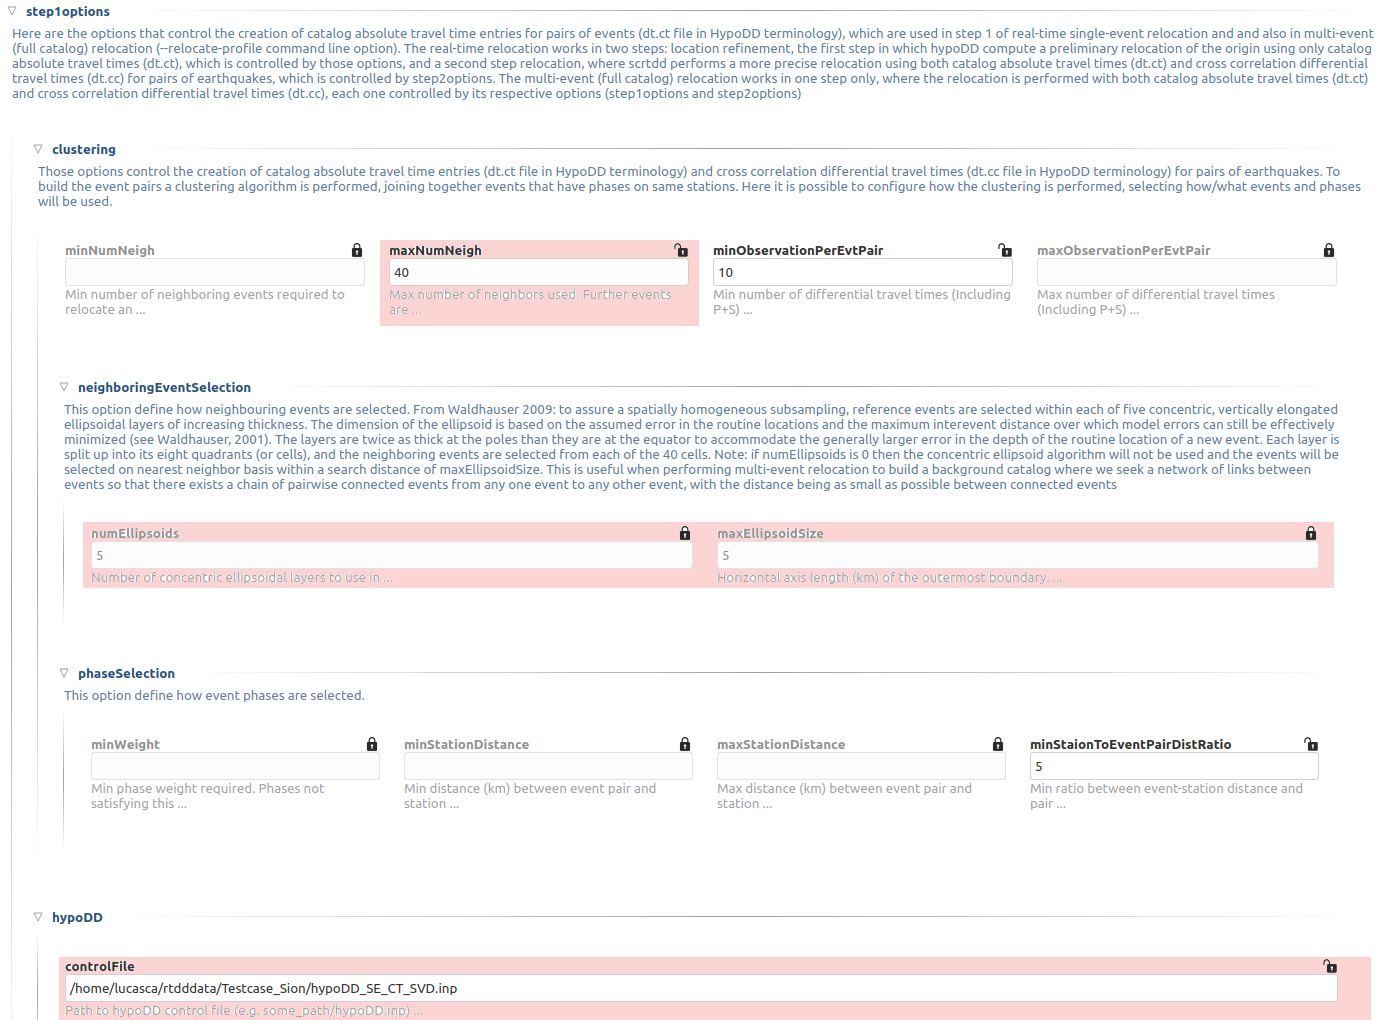
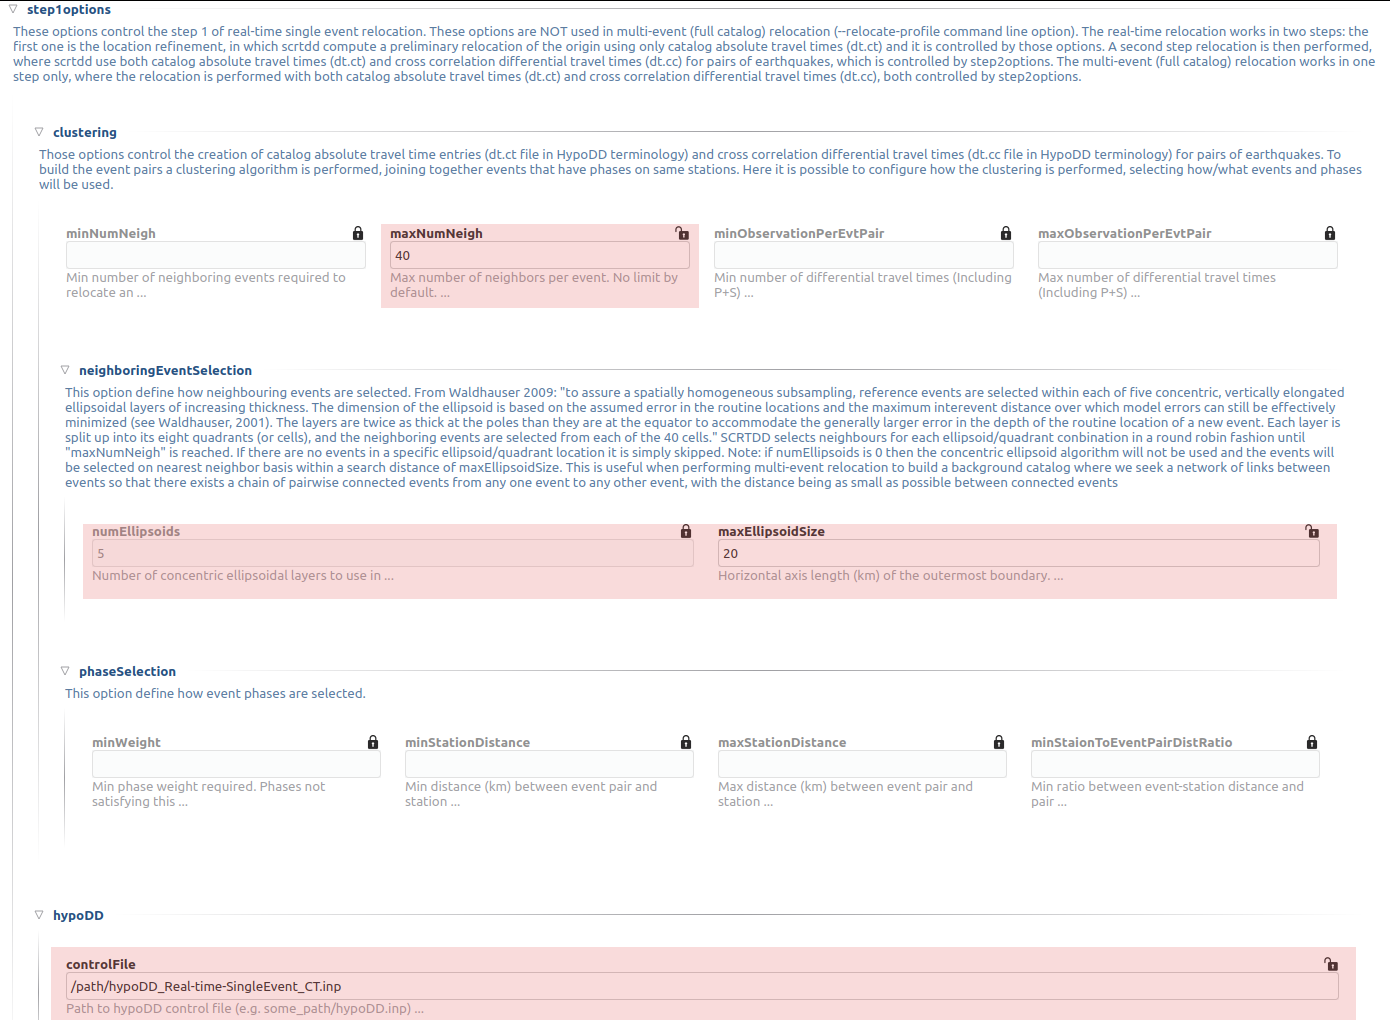
DOC: README

diff --git a/README.md b/README.md
@@ -71,7 +71,7 @@ Origin/20190223103327.031726.346363
 
 ### 2.2. Generating a background catalog
 
-In the more general case in which we don't already have a background catalog, we have to build one using scrtdd. Generating a background catalog involves two steps: first we select the candidate events that might have low quality locations (we still want them to be as accurate as possible and with many phases, e.g. origins from manual picks) and then we use scrtdd to relocated those to achieve the quality needed for a background catalog.
+In the more general case in which we don't already have a background catalog, we have to build one using scrtdd. Generating a background catalog involves two steps: first we select the candidate events that might have low quality locations (we still want them to be as accurate as possible though, and with many phases. That is we want origins manully relocated using manual picks) and then we use scrtdd to relocated those events to achieve the quality needed for a background catalog. The higher the quality of the background catalog, the higher will be the quality of the real time origin relocations.
 
 #### 2.2.1 Dumping the candidate events to files
 
@@ -83,10 +83,16 @@ scrtdd --dump-catalog myCatalog.csv
 
 It is usually convenient to see the logs on the console to detect possible errors. To achieve this we can add the options ```--verbosity=3 --console=1``` to the command.
 
-Depending on your configuration, the seiscomp database could be configured inside ```global.cfg``` or provided to the modules via scmaster. In the latter case we have to pass the database connection via command line option since ```--dump-catalog``` detach scrtdd from the messaging. Specifying the database connection via command line is also useful when the events resides on a different seiscomp database. Let's use the -d option to specify the database connection:
+Depending on your configuration, the seiscomp database could be configured inside ```global.cfg```  and thus every module knows what database to use, or this option can be provided to the modules via scmaster (```scmaster.cfg```) once they connect to the messagin system. In the latter case we have to pass the database connection to scrtdd via command line option since ```--dump-catalog``` detach scrtdd from the messaging. Specifying the database connection via command line is also useful when you want to use your local seiscomp installation to access events that reside on a different host (where a seiscomp database is installed). Let's use the -d option to specify the database connection then:
 
 ```
-scrtdd --dump-catalog myCatalog.csv  -d  mysql://user:password@host/seiscompDbName
+scrtdd --dump-catalog myCatalog.csv  -d  mysql://user:password@host/seiscompDbName --verbosity=3 --console=1
+```
+
+or in case you have a Postgresql database:
+
+```
+scrtdd --dump-catalog myCatalog.csv --plugins dbpostgresql -d postgresql://user:password@host/seiscompDbName --verbosity=3 --console=1
 ```
 
 The above command will generate three files (event.csv, phase.csv and stations.csv) which contain the information needed by scrtdd to relocate the selected events. 
@@ -139,25 +145,31 @@ At this point we have to configure the other profile options that control the re
 
 ![Relocation options](/data/multiEventStep2options.png?raw=true "Relocation options")
 
-A more careful selection is required for the cross correlation parameters, which are covered in the next paragraph.
+Then it is time to set the cross correlation parameters, which require a more careful selection and it is covered in the next paragraph.
 
-In [this folder](<https://gitlab.seismo.ethz.ch/lucasca/rtdd-addons/tree/master/data>) there are some example hypoDD configuration files.
+In the ```data``` folder of this project there are some hypoDD 2.1b configuration example files (the velocity model has to be changed to reflect your specific use case).
 
 Finally, when the configuration is done, we can relocate the catalog with the command:
 
 ```
-scrtdd --reloc-profile profileName
+scrtdd --reloc-profile profileName --verbosity=3 --console=1
 ```
 
-scrtdd will relocated the catalog and will generate another set of files reloc-event.csv reloc-phase.csv and reloc-stations.csv, which together define a new catalog with relocated origins. At this point we should check the relocated events and see if we are happy with the results. If not, we change scrtdd settings and relocate the catalog again until we are satisfied with the locations. The final files will become the background catalog used in real-time relocation. At this point the profile configuration is not needed anymore, so the profile can be removed from the list of active profiles ('activeProfiles') or it can be updated with real-time configuration.
+scrtdd will relocated the catalog and will generate another set of files reloc-event.csv reloc-phase.csv and reloc-stations.csv, which together define a new catalog with relocated origins. At this point we should check the relocated events and see if we are happy with the results. If not, we change scrtdd settings and relocate the catalog again until we are satisfied with the locations. As an example you can see below two catalogs before and after scrtdd relocation:
+
+
+![Relocation example picture](/data/multiEventRelocationExample.png?raw=true "Relocation example")
+
+
+The command output files (reloc-event.csv reloc-phase.csv and reloc-stations.csv) will become the background catalog used in real-time relocation. At this point the profile configuration is not needed anymore, so the profile can be removed from the list of active profiles ('activeProfiles') or it can be updated with real-time configuration.
 
 ![Catalog selection option](/data/catalog-selection3.png?raw=true "Catalog selection from raw file format")
 
-We are now ready to perform real time relocation!
+We are now ready to perform real time relocation.
 
 #### 2.2.3 Cross correlation, waveform filtering and signal to noise ratio options
 
-Those parameters require some time to be correctly set but once they are fixed they can be used for real-time relocation without any major change.
+Those parameters require some trial and error to be correctly set but once they are fixed they can be used for both multi-event and real-time relocation without any major change, except for the parameter ```maxDelay``` that should be increased in real-time relocation to accomodate the larger uncertainty of automatic picks compared to manual ones.
 
 ![Relocation options](/data/xcorr.png?raw=true "Relocation options")
 
@@ -192,7 +204,7 @@ The waveforms generated with `--debug-wf` will be stored in `workingDirectory/pr
 * `NET.ST.LOC.CH.startime-endtime.mseed.rtdd-detected-P/S-phase-cc-xx.debug` (traces of phases automatically detected by scrtdd when the option `findMissingPhase` is enabled)
 
 
-It is also possible to inspect the waveforms of all phases contained in the catalog, not only the ones used during multi event relocation. Combine the --load-profile-wf option with --debug-wf to achieve this:
+It is also possible to inspect the waveforms of all phases contained in the catalog, not only the ones used during multi event relocation (which ones will be used depend on the clustering settings). Combine the --load-profile-wf option with --debug-wf to achieve this:
 
 ```
 scrtdd --debug-wf --load-profile-wf profileName
@@ -264,9 +276,9 @@ Real time relocation uses the same configuration we have seen in full catalog re
 
 Step 1: location refinement. In this step scrtdd performs a preliminary relocation of the origin using only catalog absolute travel time entries (dt.ct only).
 
-Step 2: the refined location is used as starting location to perform a more precise relocation using both catalog absolute travel times (dt.ct) and differential travel times from cross correlation (dt.cc). 
+Step 2: the refined location computerd in the previous step is used as starting location to perform a more precise relocation using both catalog absolute travel times (dt.ct) and differential travel times from cross correlation (dt.cc). If step1 fails, step2 is attempted anyway.
 
-After step2 the relocated origin is sent to the messaging system. If step2 fails, then the relocated origin from step1 is sent to the messaging system. If step1 fails, step2 is attempted anyway.
+If step2 completes successfully the relocated origin is sent to the messaging system.
 
 
 ![Relocation options](/data/step1options.png?raw=true "Relocation options")
@@ -304,13 +316,13 @@ E.g. if we want to process an origin we can run the following command and then c
 
 
 ```
-scrtdd -O someOriginId
+scrtdd -O someOriginId --verbosity=3 --console=1
 ```
 
 Alternatively we can reprocess an XML file:
 
 ```
-scrtdd --ep eventparameter.xml
+scrtdd --ep eventparameter.xml --verbosity=3 --console=1
 ```
 
 ## 4. RecordStream configuration
